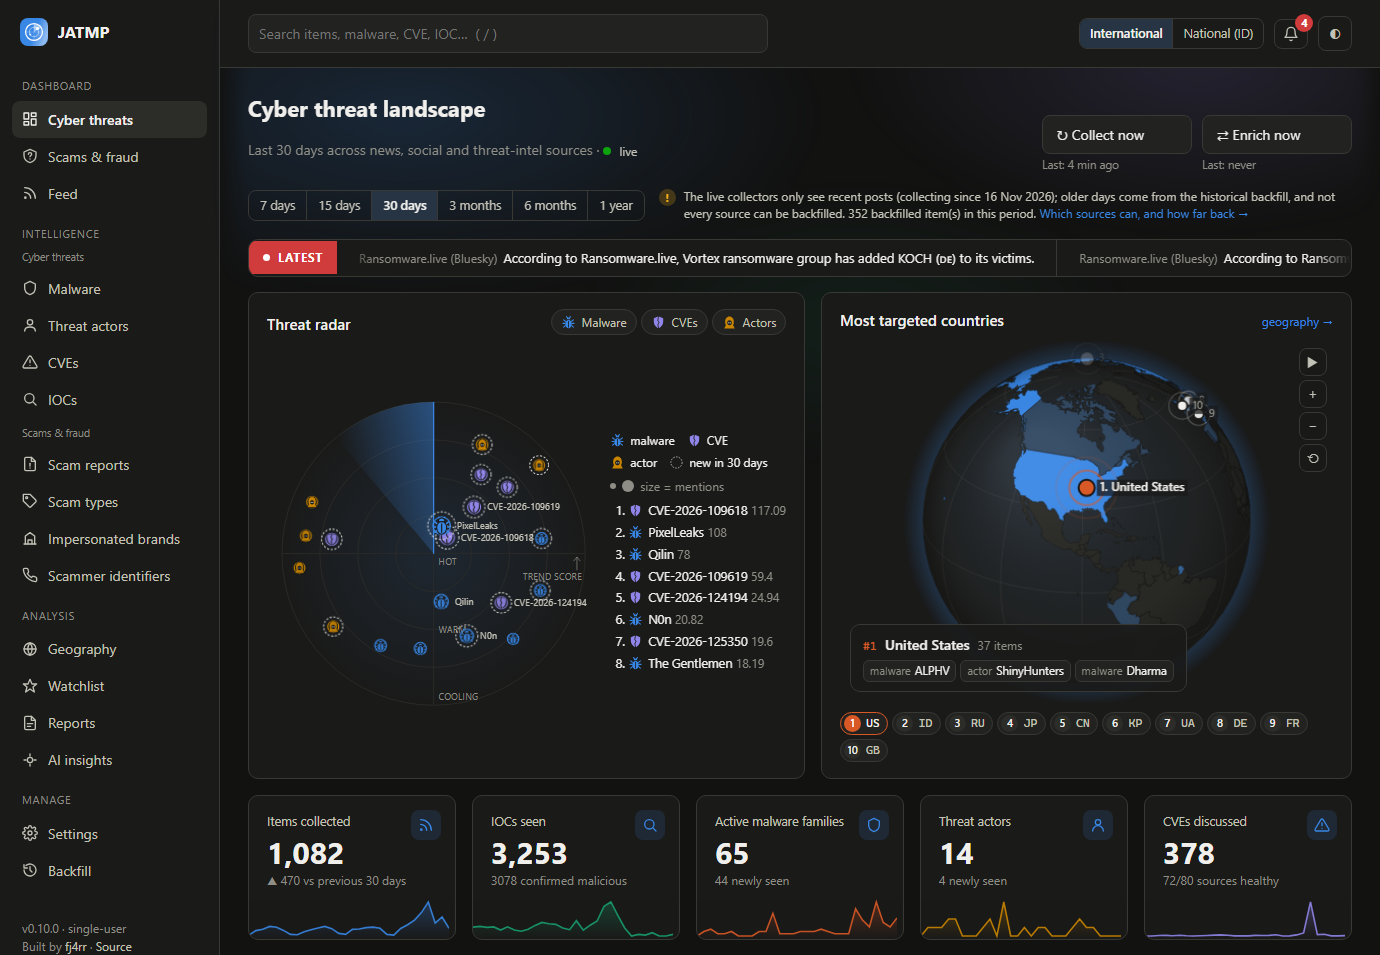
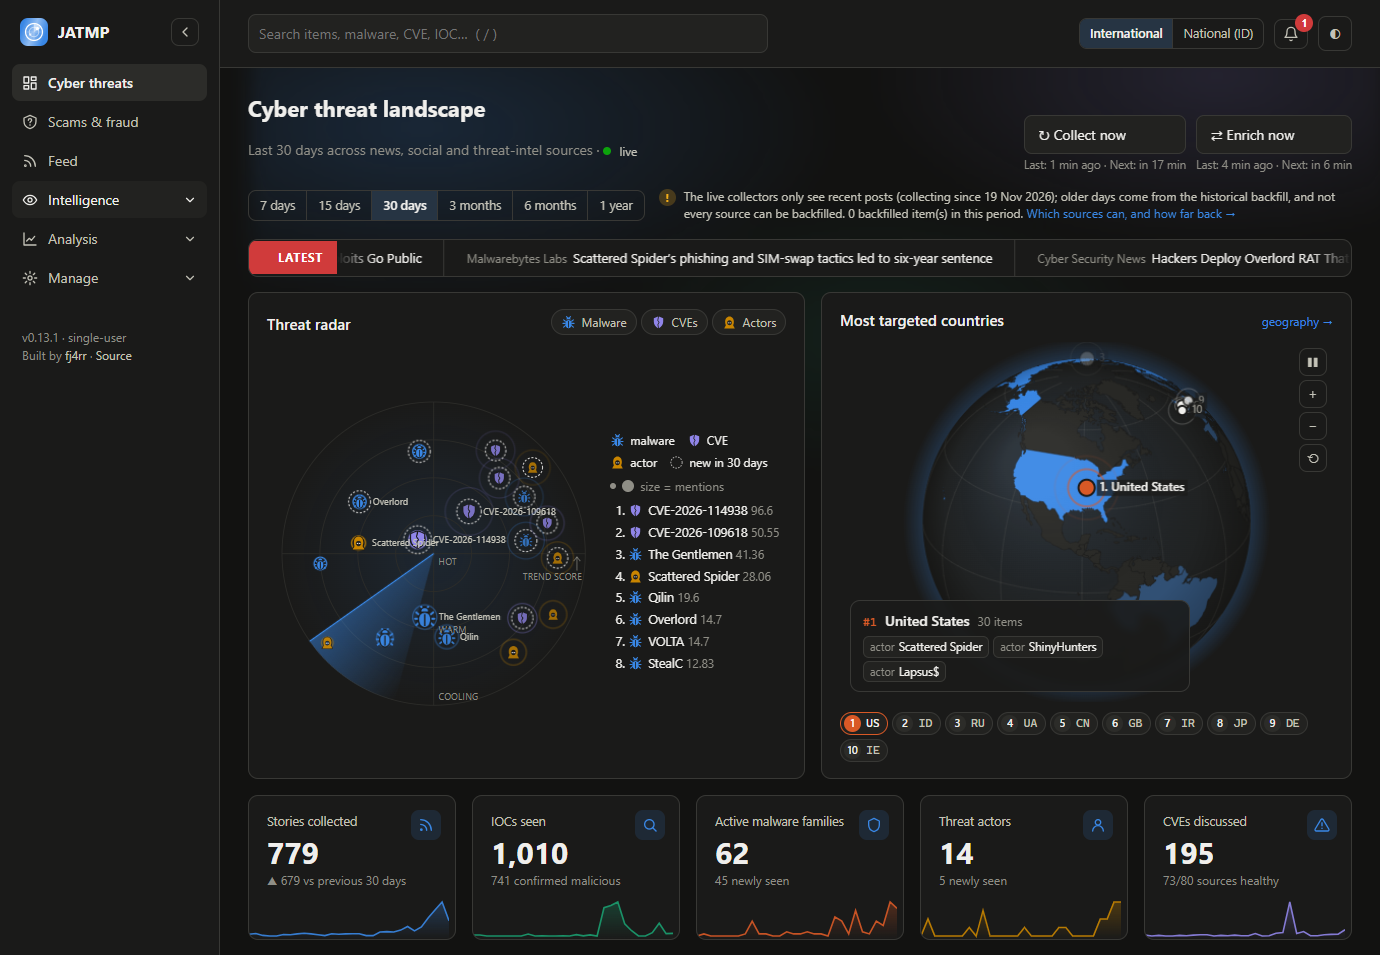
Retake the README and docs screenshots for the new menu; fit the Intelligence sub-menu

diff --git a/app/static/css/app.css b/app/static/css/app.css
@@ -751,8 +751,8 @@ th.has-tip, .has-tip > a { text-decoration: underline dotted; text-underline-off
 .nav-group > summary .lbl { flex: 1; }
 .nav-group > summary .chev { width: 14px; height: 14px; margin-left: auto; transition: transform .15s; }
 .nav-group[open] > summary .chev { transform: rotate(180deg); }
-.nav-sub { margin: 2px 0 6px 18px; padding-left: 8px; border-left: 1px solid var(--border); }
-.nav-sub a { padding: 6px 10px; font-size: 13.5px; }
+.nav-sub { margin: 2px 0 6px 12px; padding-left: 4px; border-left: 1px solid var(--border); }
+.nav-sub a { padding: 6px 8px; gap: 8px; font-size: 13.5px; }
 .nav-sub .sep.sub { margin: 8px 10px 4px; }
 .side-toggle { margin-left: auto; display: inline-grid; place-items: center; width: 28px; height: 28px; padding: 0; border-radius: 8px;
   border: 1px solid var(--border); background: transparent; color: var(--text-secondary); cursor: pointer; flex: none; }

diff --git a/docs/screenshots.md b/docs/screenshots.md
@@ -2,11 +2,12 @@
 
 [← Documentation index](README.md)
 
-A tour of the interface as of 0.10, taken on a test install filled from public sources (no enrichment keys, so most
+A tour of the current interface, taken on a test install filled from public sources (no enrichment keys, so most
 indicators show as *pending*).
 
-Cyber threats dashboard: the sidebar with the two dashboards and the cyber and scam pages under *Intelligence*,
-the period switch (7 days to 1 year) with the backfill note, International / National (ID) switch, *Collect now*
+Cyber threats dashboard: the collapsible sidebar (*Cyber threats*, *Scams & fraud* and *Feed* on top, then the
+*Intelligence*, *Analysis* and *Manage* dropdowns, shown here with *Intelligence* open; the arrow by the logo folds
+the whole menu into an icon rail), the period switch (7 days to 1 year) with the backfill note, International / National (ID) switch, *Collect now*
 / *Enrich now* with last and next run, headline ticker, threat radar with families, CVEs and actors, the globe of
 the top 10 target countries, and the KPI tiles.
 
@@ -38,7 +39,7 @@ and the latest identifiers.
 |---|---|
 | ![Entity page](screenshots/entity.png) | ![IOCs](screenshots/iocs.png) |
 
-| Malware families: unified table with trend score, related entities and pagination | CVE list sorted by EPSS, with KEV badges and co-mentioned families |
+| Malware families: unified table with trend score, related entities and pagination | CVE list sorted by EPSS, with KEV badges, co-mentioned families and the *New threats* button |
 |---|---|
 | ![Malware families](screenshots/malware.png) | ![CVEs](screenshots/cves.png) |
 

diff --git a/CHANGELOG.md b/CHANGELOG.md
@@ -14,6 +14,7 @@ All notable changes to JATMP. Upgrade steps per version are in [docs/upgrading.m
   to an icon rail with the arrow next to the logo.
 - New **New threats** button on the Intelligence lists (Malware, Threat actors, CVEs, IOCs, Scam types and Impersonated
   brands): it keeps only what was first seen inside the chosen period and leaves your other filters alone.
+- Every screenshot in the docs and the README is retaken for the new menu and layout.
 - Higher minimum versions of optional and core dependencies: `anthropic` 2.8.0, `feedparser` 6.0.14,
   `python-docx` 1.2.0, `psycopg` 3.3.9 (PostgreSQL) and `telethon` 1.45.0 (Telegram MTProto). Run
   `pip install -r requirements.txt` again (and the PostgreSQL or Telegram file if you use them) when upgrading
